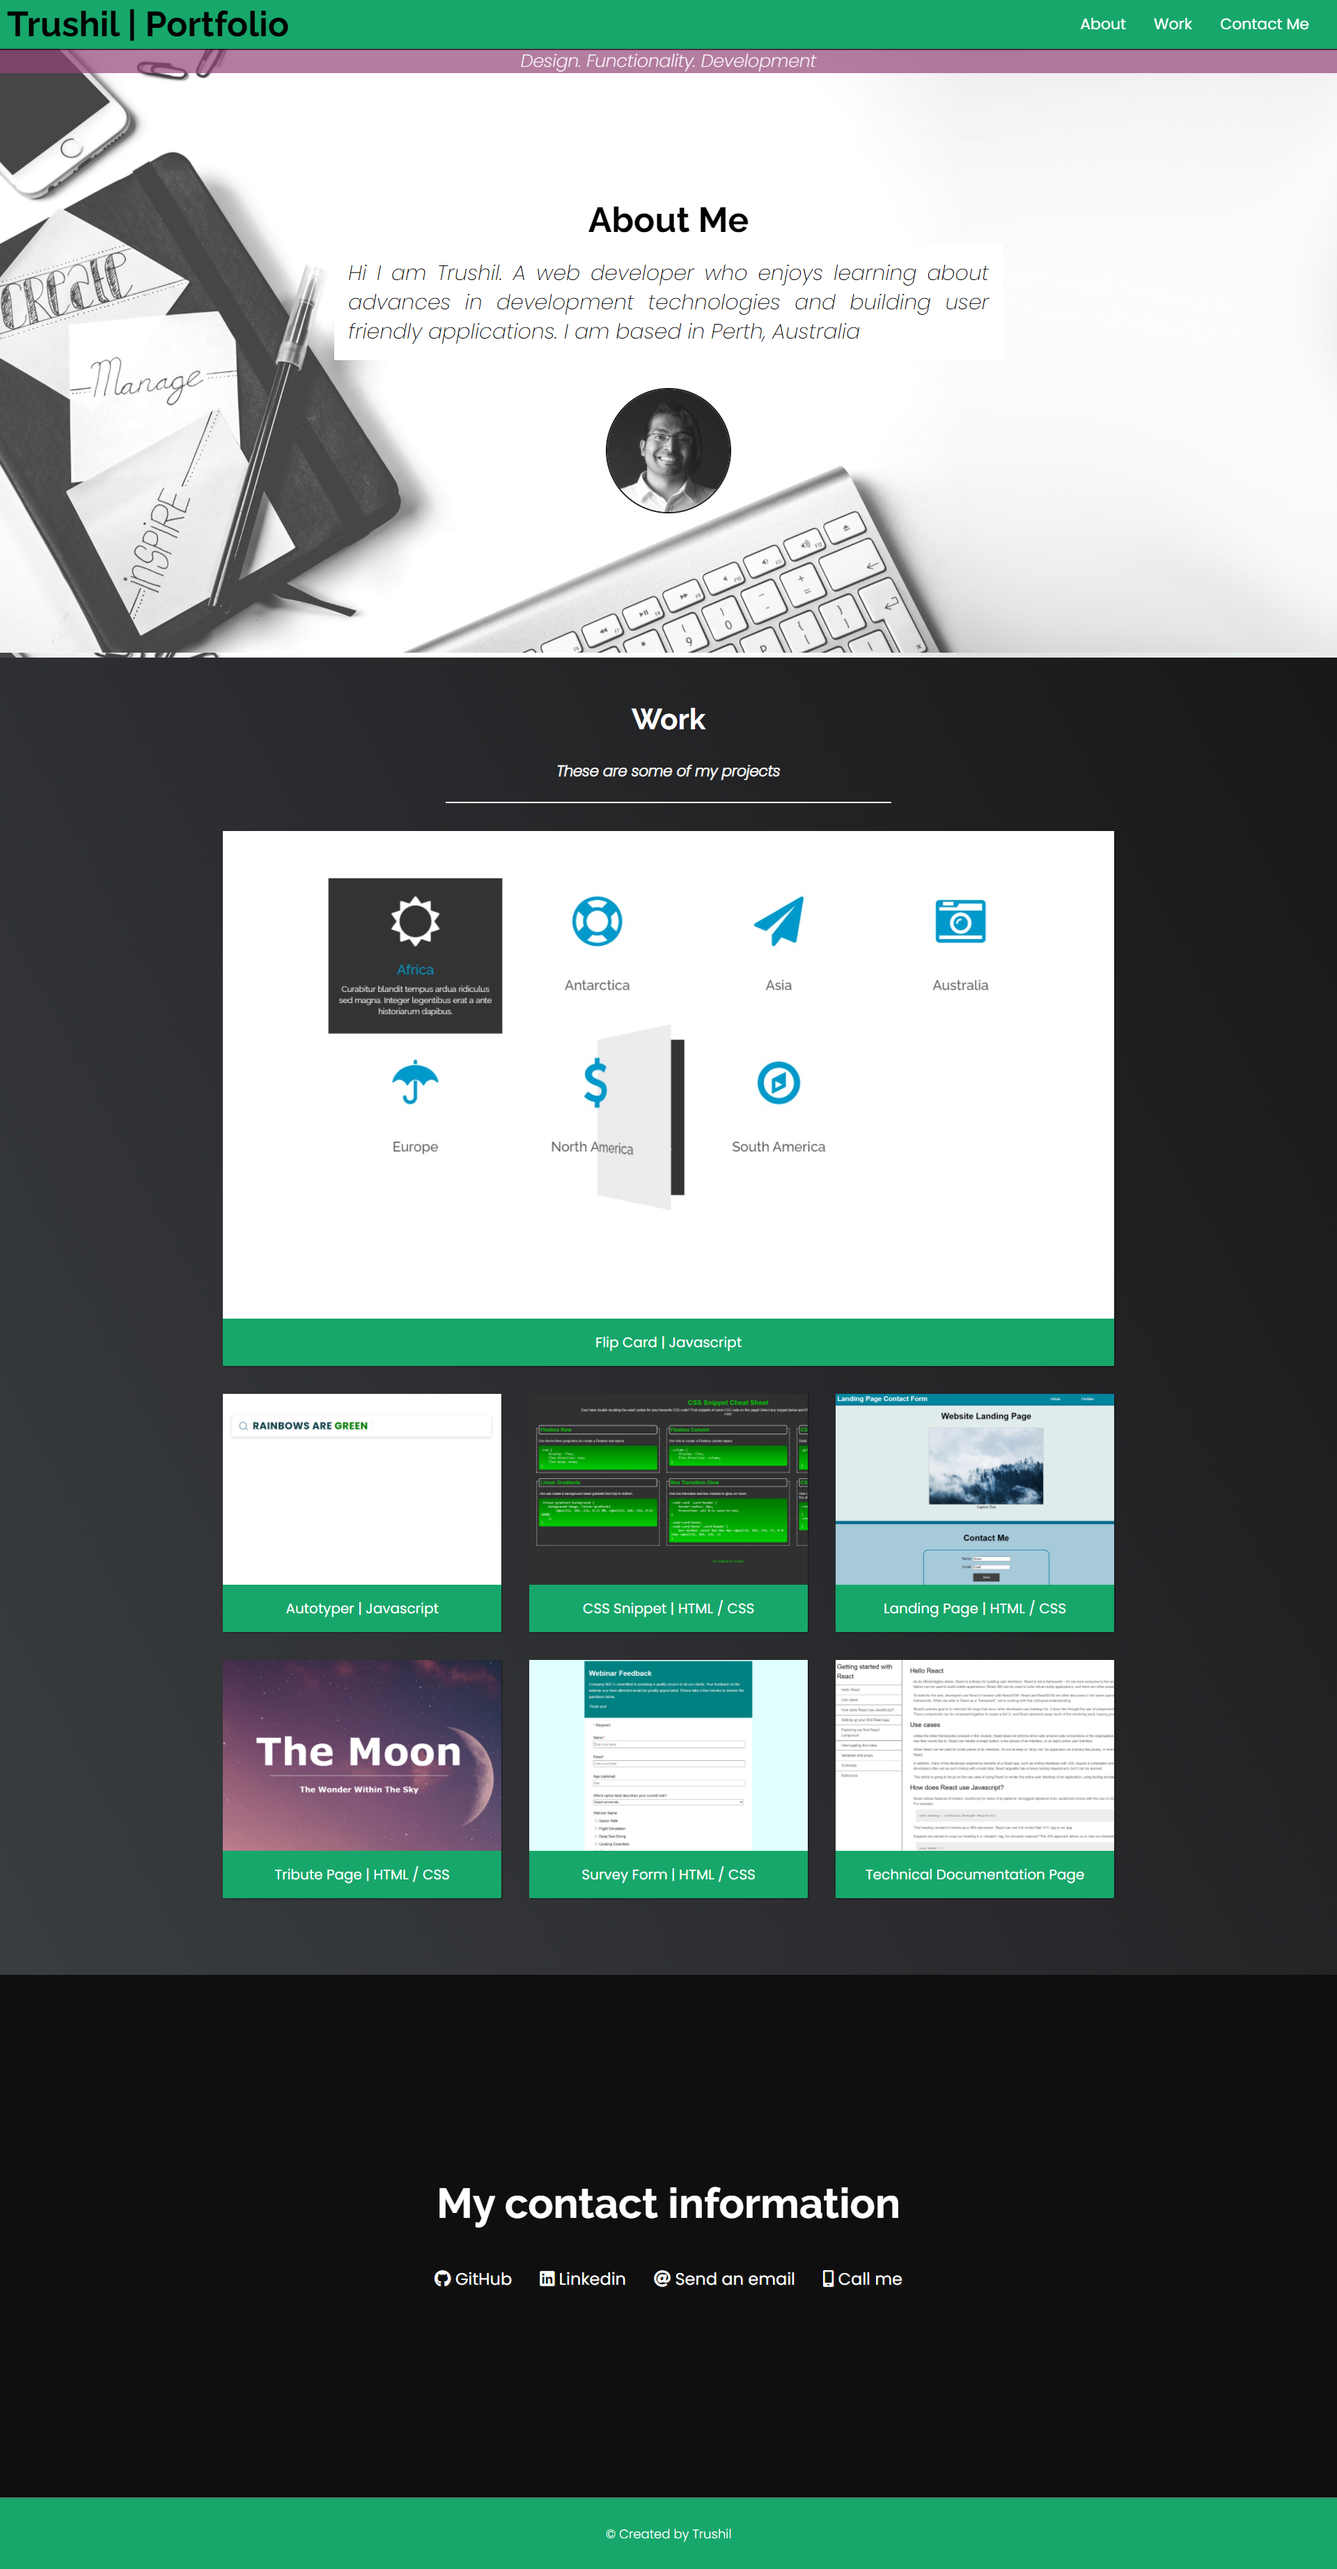
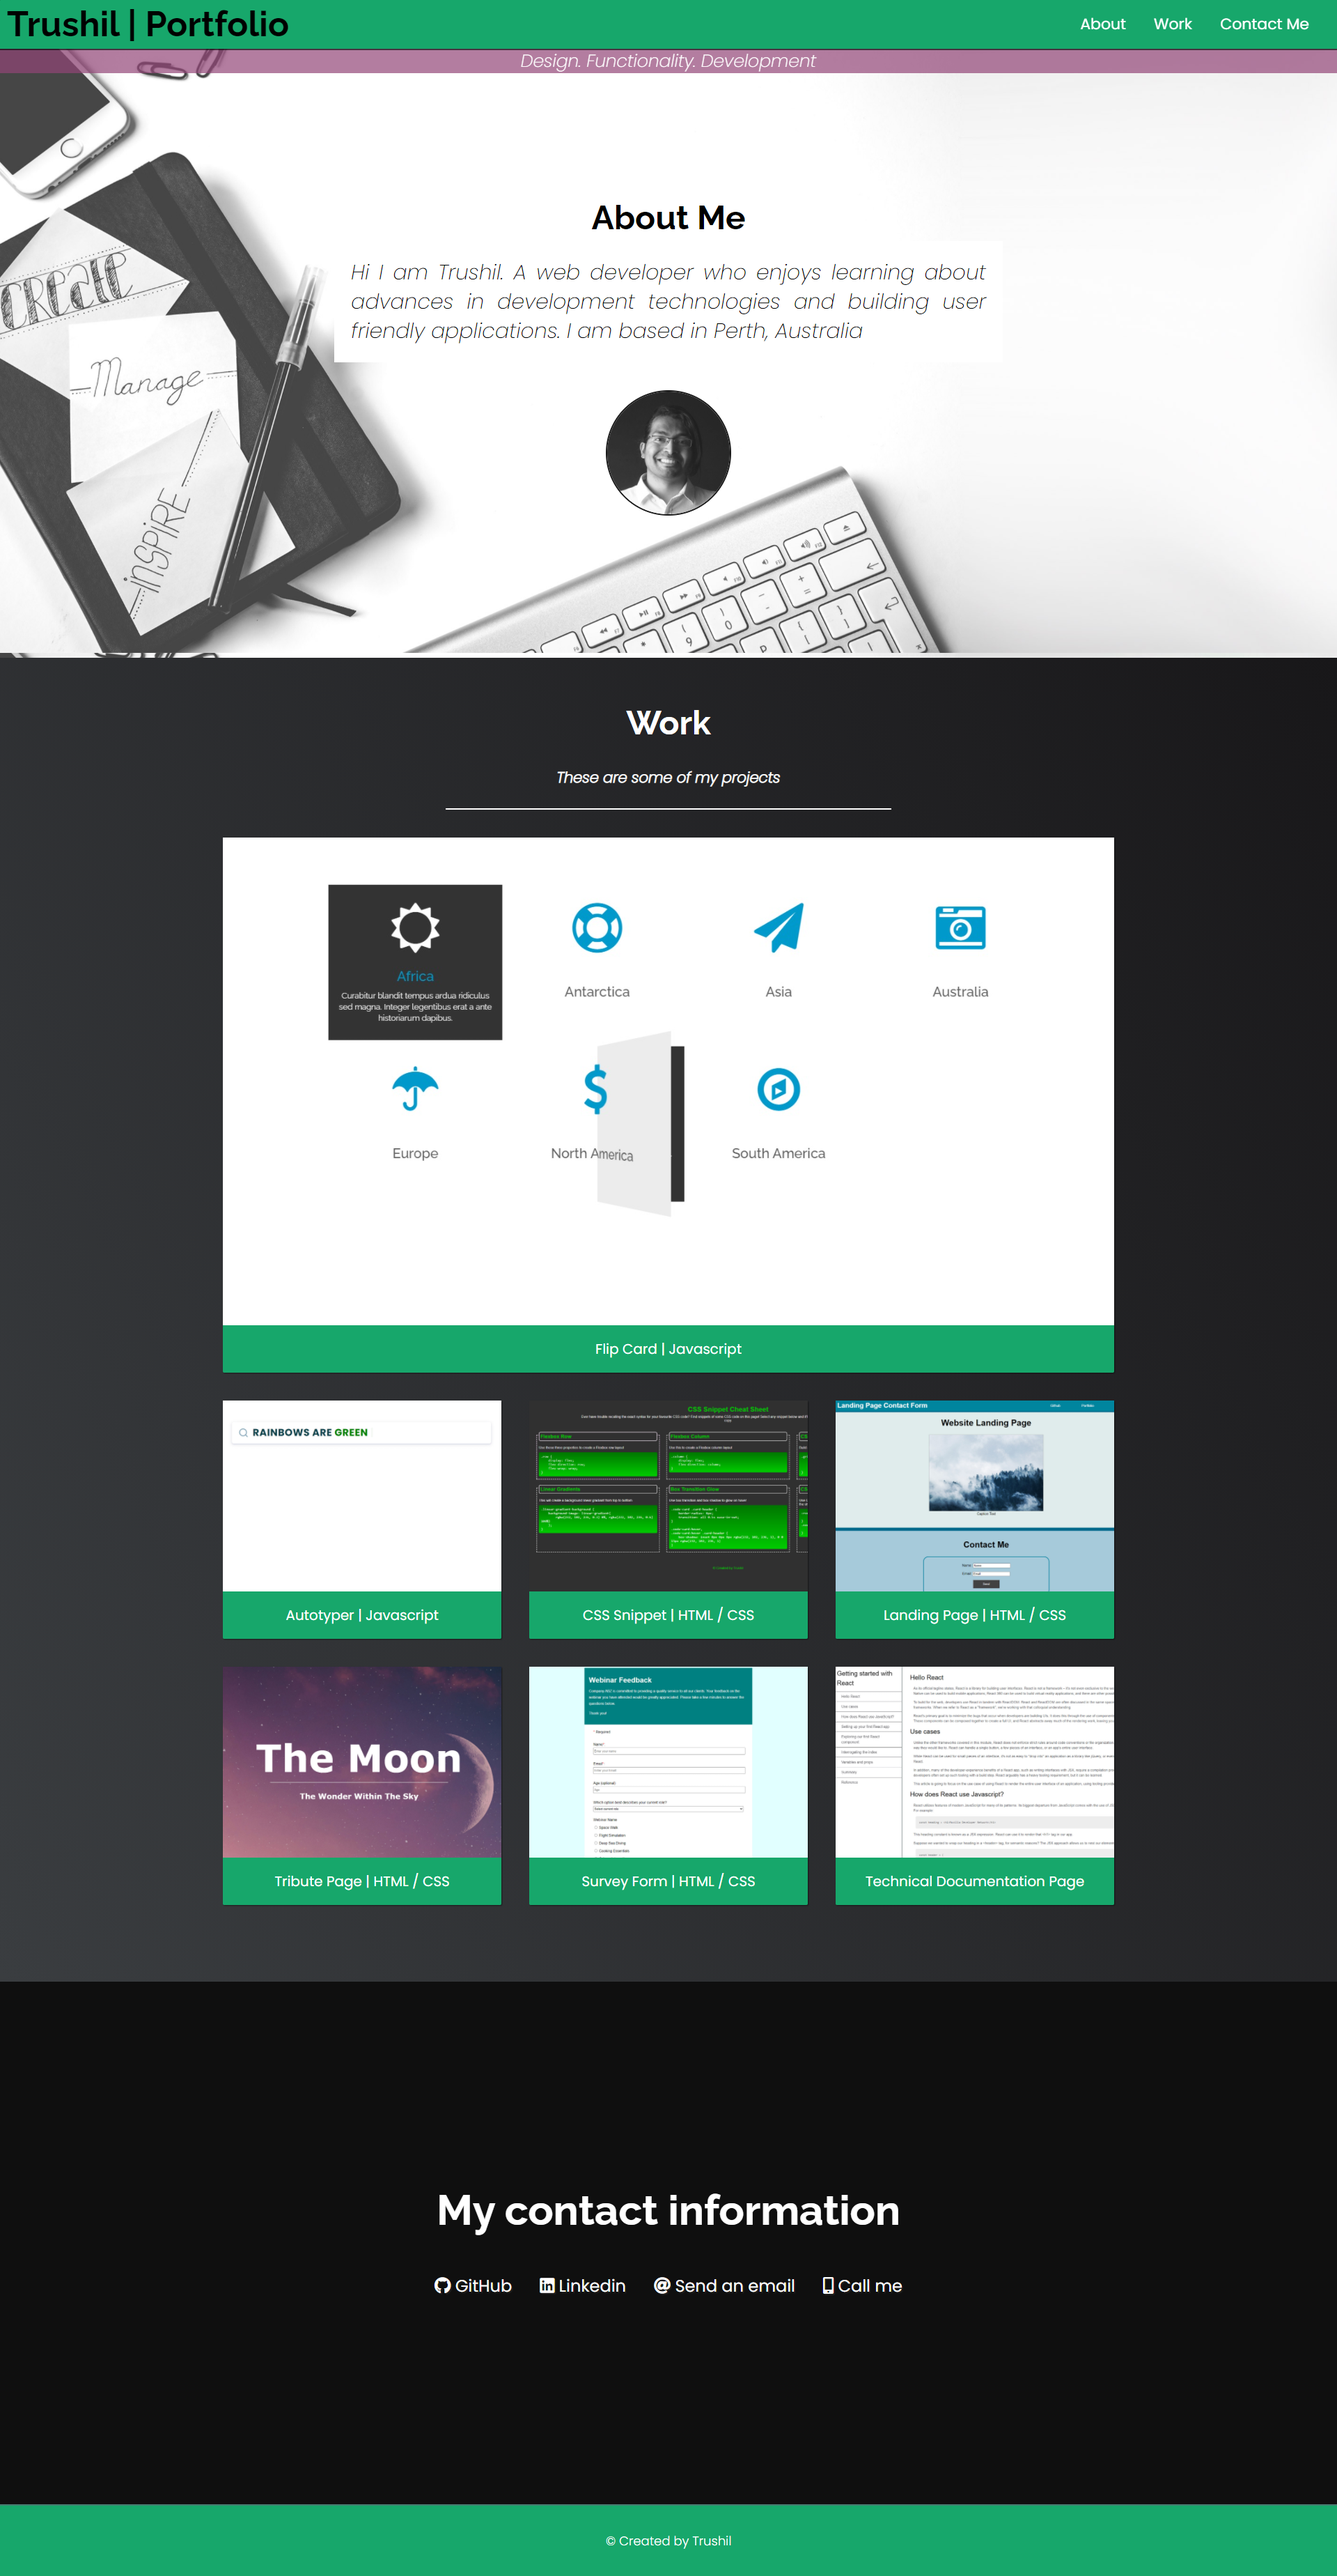
Updated index.html and style.css files with cleaner code

diff --git a/assets/css/style.css b/assets/css/style.css
@@ -24,7 +24,6 @@
 html {
   box-sizing: border-box;
   scroll-behavior: smooth;
-
 }
 
 body {
@@ -217,7 +216,7 @@ main > .projects-grid {
   width: 100%;
 }
 
-#contact-section-header h2 {
+#contact h2 {
   color: var(--main-white);
 }
 
@@ -275,9 +274,13 @@ footer {
 
 /* MEDIA QUERIES */
 /****************************************************/ 
-/* For TABLETS and larger devices - min-width 425px */
+/* For large PHONES, TABLETS and larger devices - min-width 425px */
 /****************************************************/ 
-@media (min-width: 425px) {
+@media only screen and (min-width: 425px) {
+  /* Element styling */
+  h2 {
+    font-size: 3rem;
+  }
   /* Header section styling */
   #navbar {
     display: flex;
@@ -294,52 +297,18 @@ footer {
   #about-me-section p {
     font-size: 1.875rem;
   }
-  /* Contact Information section styling */
-  #contact-section-header h2 {
-    font-size: 2.625rem;
-  }
 }
 
 /***********************************************************/ 
 /* For larger TABLETS and bigger devices - min-width 768px */
 /***********************************************************/ 
-@media (min-width: 768px) {
+@media only screen and (min-width: 768px) {
   /* Header section styling */
   #navbar {
     position: fixed;
   }
-  #nav-list li a {
-    font-size: 1.375rem;
-  }
   #subtitle-text h3 {
     display: block;
-  }
-  /* About Me section styling */
-  #about-me-section p {
-    margin: 0 auto;
-  }
-  /* Contact Information section styling */
-  #contact {
-    height: 80vh;                             /* Takes up 80% of the viewport height */
-  }
-  #contact-section-header h2 {
-    font-size: 3.75rem;
-  }
-}
-
-/****************************************************/ 
-/* For LAPTOPS and larger devices - min-width 980px */
-/****************************************************/ 
-@media (min-width: 980px) {
-  /* Header section styling */
-  #navbar {
-    justify-content: space-between;
-  }
-  #navbar h1 {
-    display: block;
-  }
-  #subtitle-text h3 {
-    font-size: 1.5675rem;
   }
   /* About Me section styling */
   #about-me-section {
@@ -348,17 +317,41 @@ footer {
     height: 97vh;                             /* Takes up 97% of the viewport height */
   }
   #about-me-section p {
-    width: 60%;
+    margin: 0 auto;
   }
   .photo {
     display: block;
+  }
+  /* Contact Information section styling */
+  #contact {
+    height: 80vh;                             /* Takes up 80% of the viewport height */
+  }
+  #contact h2 {
+    font-size: 3.75rem;
+  }
+}
+
+/****************************************************/ 
+/* For LAPTOPS and larger devices - min-width 992px */
+/****************************************************/ 
+@media only screen and (min-width: 992px) {
+  /* Header section styling */
+  #navbar {
+    justify-content: space-between;
+  }
+  #navbar h1 {
+    display: block;
+  }
+  /* About Me section styling */
+  #about-me-section p {
+    width: 60%;
   }
 }
 
 /*************************************/  
 /* For DESKTOP PC - min-width 1200px */
 /*************************************/ 
-@media (min-width: 1200px) {
+@media only screen and (min-width: 1200px) {
   /* About Me section styling */
   #about-me-section p {
     width: 50%;

diff --git a/index.html b/index.html
@@ -33,7 +33,7 @@
 
     <!-- START ABOUT ME SECTION -->
     <section id="about-me-section">
-        <h1>About Me</h1>
+        <h2>About Me</h2>
         <p>Hi I am Trushil. A web developer who enjoys learning about advances in development technologies and building user friendly applications. I am based in Perth, Australia</p>
         <img class="photo" src="./assets/images/Photo.jpg" alt="Photo Image" />
     </section>
@@ -82,9 +82,7 @@
 
     <!-- START CONTACT SECTION -->
     <section id="contact">
-        <article id="contact-section-header">
-            <h2>My contact information</h2>
-        </article>
+         <h2>My contact information</h2>
         <article id="contact-links">
             <a href="https://github.com/TrushilBudhia/" target="_blank" class="btn contact-details">
                 <i class="fab fa-github">

diff --git a/README.md b/README.md
@@ -4,7 +4,15 @@
 
 The portfolio page contains information about myself and provides examples of the coding work I have done before. 
 
-Information to contact me has also been provided in the webpage. 
+Information to contact me has also been provided in the webpage.
+
+The webpage is responsive.
+
+## Link
+
+The link to the deployed application:
+
+Trushil Portfolio: https://trushilbudhia.github.io/Portfolio/
 
 ## Assets
 
@@ -13,9 +21,3 @@ The following image shows the web application's appearance and functionality:
 ![The Portfolio webpage includes a navigation bar, a header image, cards with text and images in the main section, a section with my contact information and a footer.](./assets/images/Trushil-Budhia-Portfolio-Preview.png)
 
 > **Note**: This layout is responsive.
-
-## Link
-
-The link to the deployed application:
-
-Trushil Portfolio: https://trushilbudhia.github.io/Portfolio/
